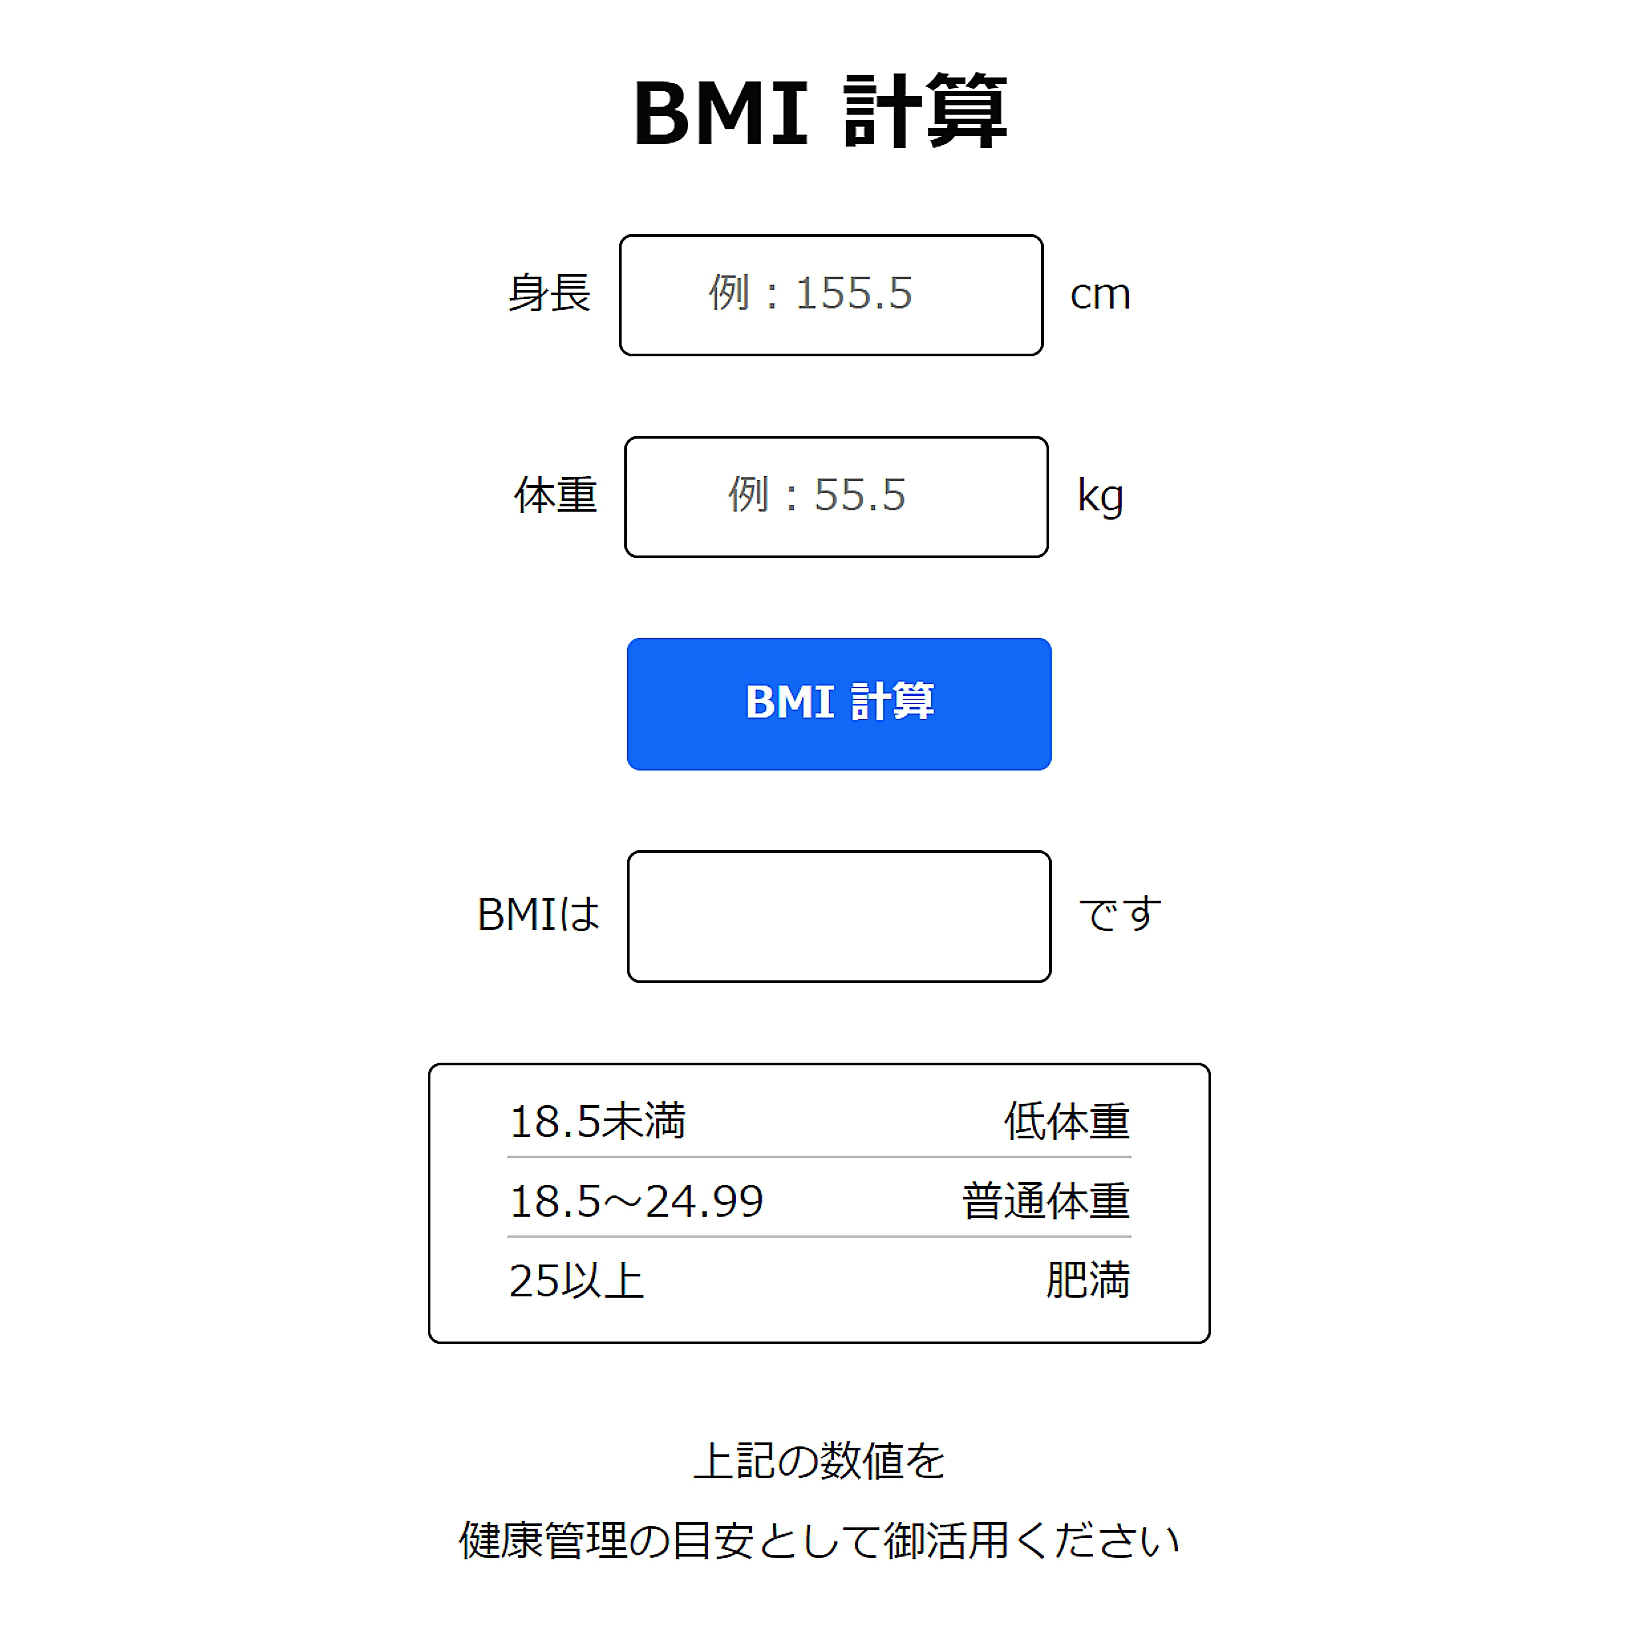
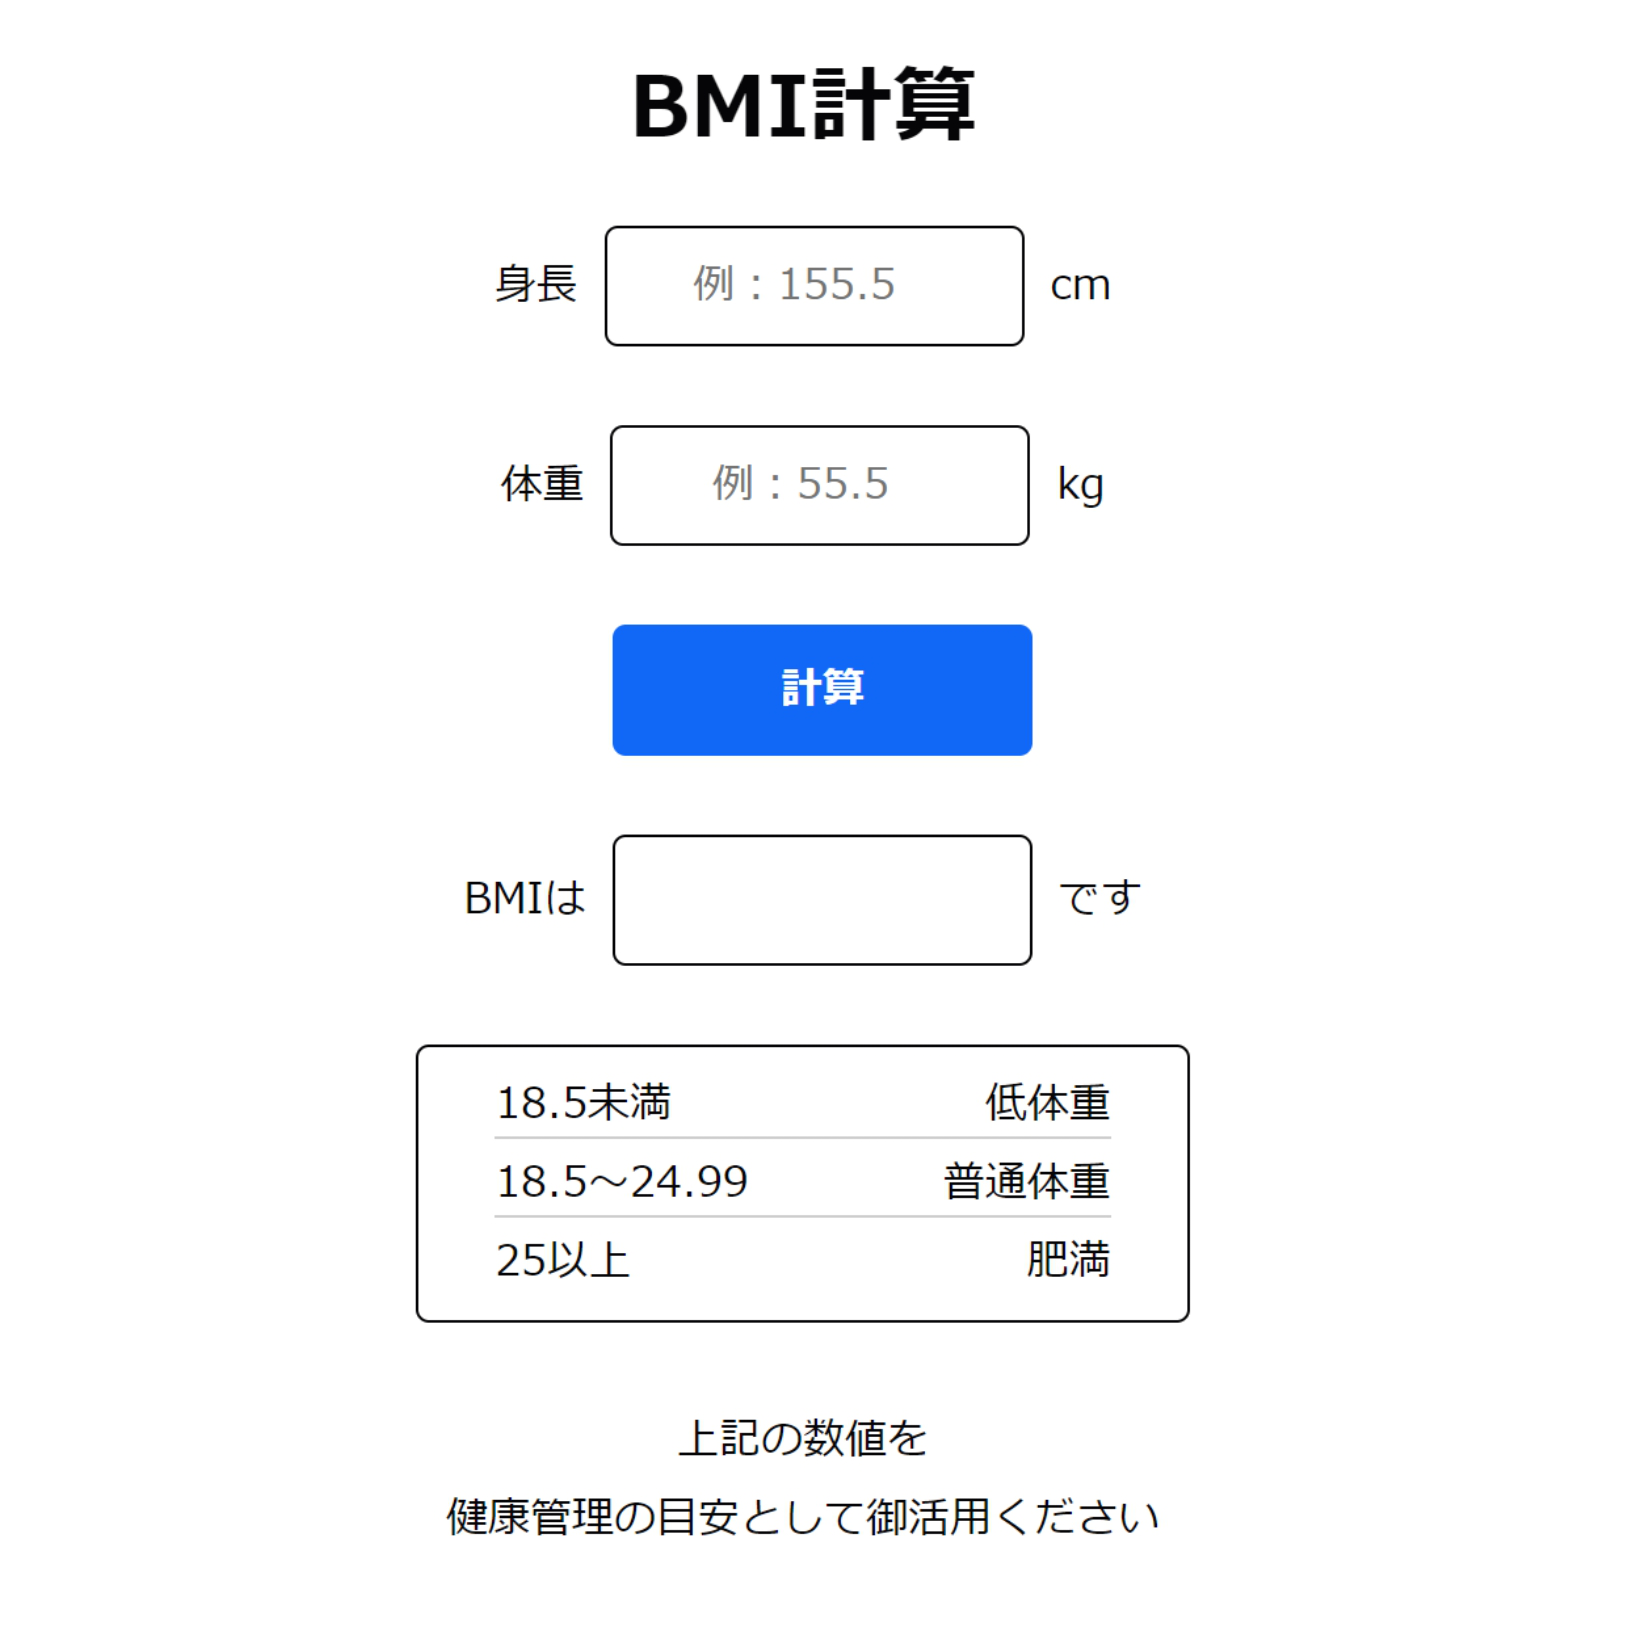
topic-ポートフォリオの見直しと更新-fumima_ru【imgの差し替え,id名とclass名の変更,alt属性の変更と追加】
・BMI計算のimgを差し替えました
・サンプルページ紹介のレイアウトを運営サイト紹介でも使用する為、sampleというid名とclass名をsquare-listに変更
  (fumima_ru_portfolio_sample.html,fumima_ru_portfolio_produce,link-page.css)
・各ページのimgにおいてalt属性の変更と追加、hover時の透過度等の変更を行いました

#1

diff --git a/fumima_ru_portfolio_sample.html b/fumima_ru_portfolio_sample.html
@@ -47,19 +47,19 @@
     <!--main----------------------------->
     <main>
       <div class="container">
-        <section id="sample">
-          <div class="samples">
-            <h2 class="sample-title">サンプル一覧</h2>
-            <ul class="sample-list">
+        <section id="square-list">
+          <div class="square-lists">
+            <h2 class="square-list-title">サンプル一覧</h2>
+            <ul class="square-list-li">
               <li>
                 <a href="sample_cafe1.html">
-                  <img src="img/fumima_ru_portfolio_sample_cafe1.png" alt="">
+                  <img src="img/fumima_ru_portfolio_sample_cafe1.png" alt="カフェのサンプルページへのリンク、クリックしてカフェのデザインを見る">
                   <p>カフェ</p>
                 </a>
               </li>
               <li>
                 <a href="sample_spice_herb_recipe1.html">
-                  <img src="img/fumima_ru_portfolio_sample_sample_spice_herb_recipe1.png" alt="">
+                  <img src="img/fumima_ru_portfolio_sample_sample_spice_herb_recipe1.png" alt="料理レシピのサンプルページへのリンク、クリックして料理レシピのデザインを見る">
                   <p>料理レシピ</p>
                 </a>
               </li>

diff --git a/fumima_ru_portfolio_produce.html b/fumima_ru_portfolio_produce.html
@@ -47,19 +47,19 @@
     <!--main----------------------------->
     <main>
       <div class="container">
-        <section id="sample">
-          <div class="samples">
-            <h2 class="sample-title">運営サイト一覧</h2>
-            <ul class="sample-list">
+        <section id="square-list">
+          <div class="square-lists">
+            <h2 class="square-list-title">運営サイト一覧</h2>
+            <ul class="square-list-li">
               <li>
                 <a href="pbf_bmi.html">
-                  <img src="img/pbf_bmi.png" alt="">
+                  <img src="img/pbf_bmi.png" alt="BMI計算サイトのロゴ、クリックしてBMI計算サイトを開く" class="border-solid-img">
                   <p><!-- BMI計算 --></p>
                 </a>
               </li>
               <li>
                 <a href="pbf_alphabet_conversion.html">
-                  <img src="img/pbf_alphabet_conversion.png" alt="">
+                  <img src="img/pbf_alphabet_conversion.png" alt="大文字・小文字変換サイトのロゴ、クリックして大文字・小文字変換サイトを開く" class="border-solid-img">
                   <p><!-- 大文字・小文字変換 --></p>
                 </a>
               </li>

diff --git a/css/link-page.css b/css/link-page.css
@@ -135,24 +135,37 @@
   }
 }
 
-/*--sample.html(css)-----------------------*/
-#sample {
+/*--sample.html--produce.html--(css)-----------*/
+#square-list {
   margin-top: 150px;
   text-align: center;
 }
 
-#sample .sample-title {
+#square-list .square-list-title {
   margin-bottom: 70px;
 }
 
-#sample .samples .sample-list {
+#square-list .square-lists .square-list-li {
   display: flex;
   flex-wrap: wrap;
   justify-content: space-between;
 }
 
-#sample .samples .sample-list li {
+#square-list .square-lists .square-list-li li {
   width: 25%;
   object-fit: cover;
   margin: 0 10px 40px 10px;
+}
+
+#square-list .square-lists .square-list-li li:hover {
+  opacity: 0.7;
+}
+
+/*----produce.html(css)--------------------*/
+.border-solid-img {
+  border: 1px solid rgb(90, 89, 89, 0.2);
+}
+
+.border-solid-img:hover {
+  border: 1px solid rgb(90, 89, 89);
 }

diff --git a/index.html b/index.html
@@ -163,7 +163,7 @@
           <p>お問い合わせはInstagramよりメッセージを送信してください</p>
           <!-- flexエリア -->
           <a href="https://www.instagram.com/fumima_ru_pg" target="_blank">
-            <img class="img" src="img/sns_instagram.svg" alt="instagram">
+            <img class="img" src="img/sns_instagram.svg" alt="instagramのロゴ、クリックしてinstagramのプロフィールを見る">
             
             <p>Instagram</p>
           </a>
